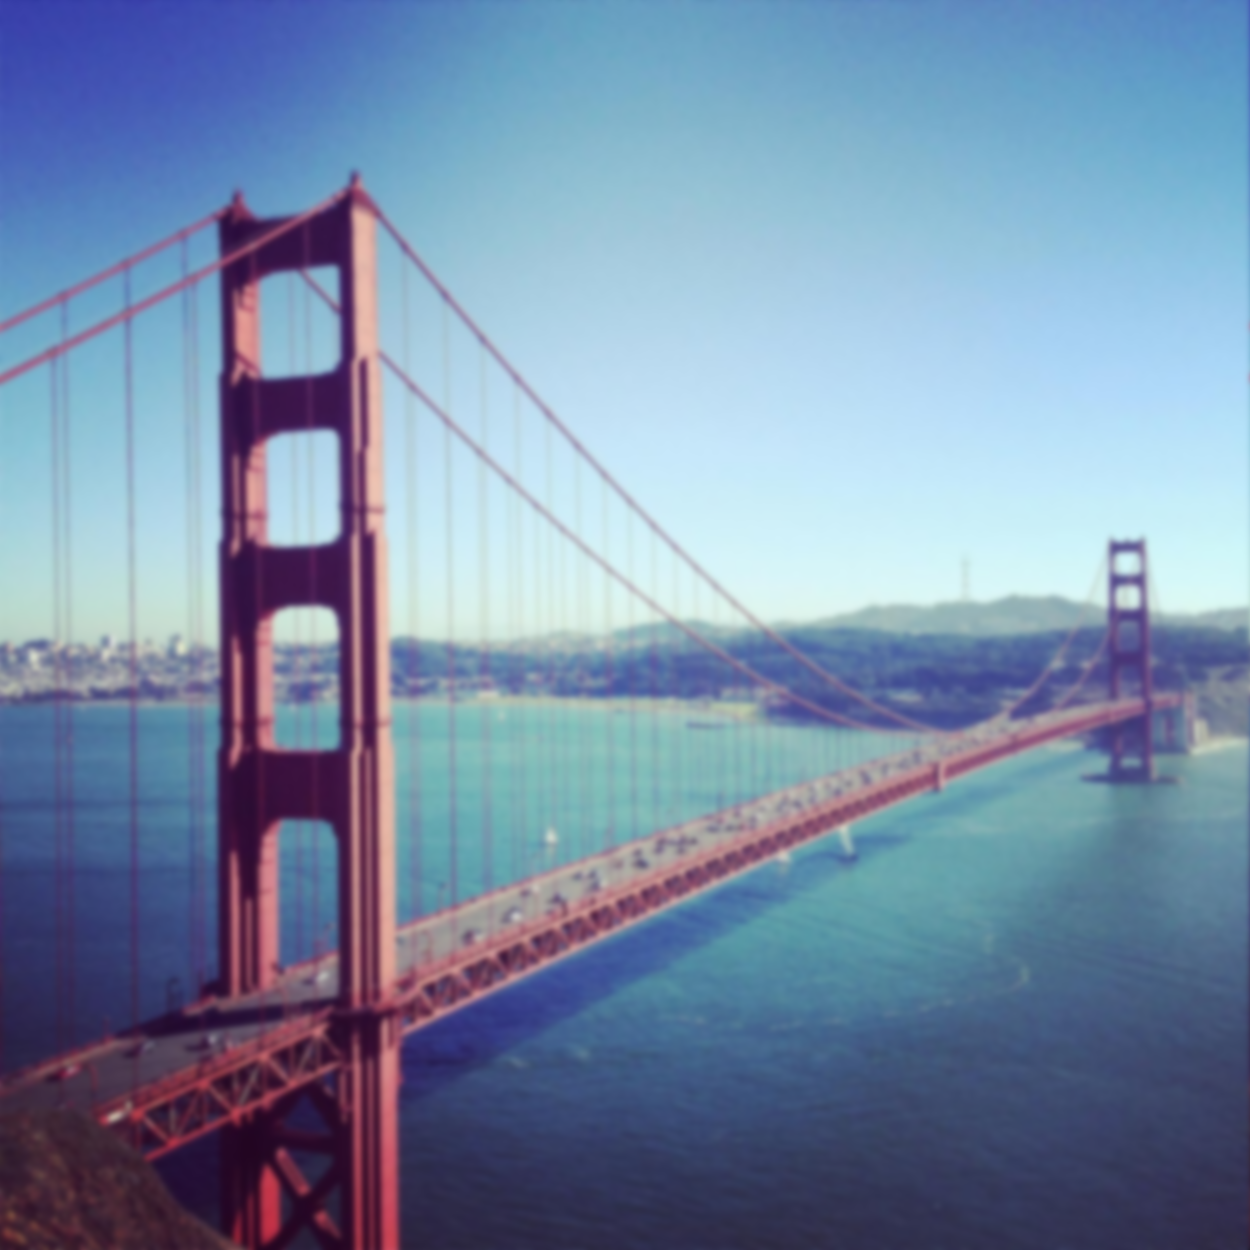
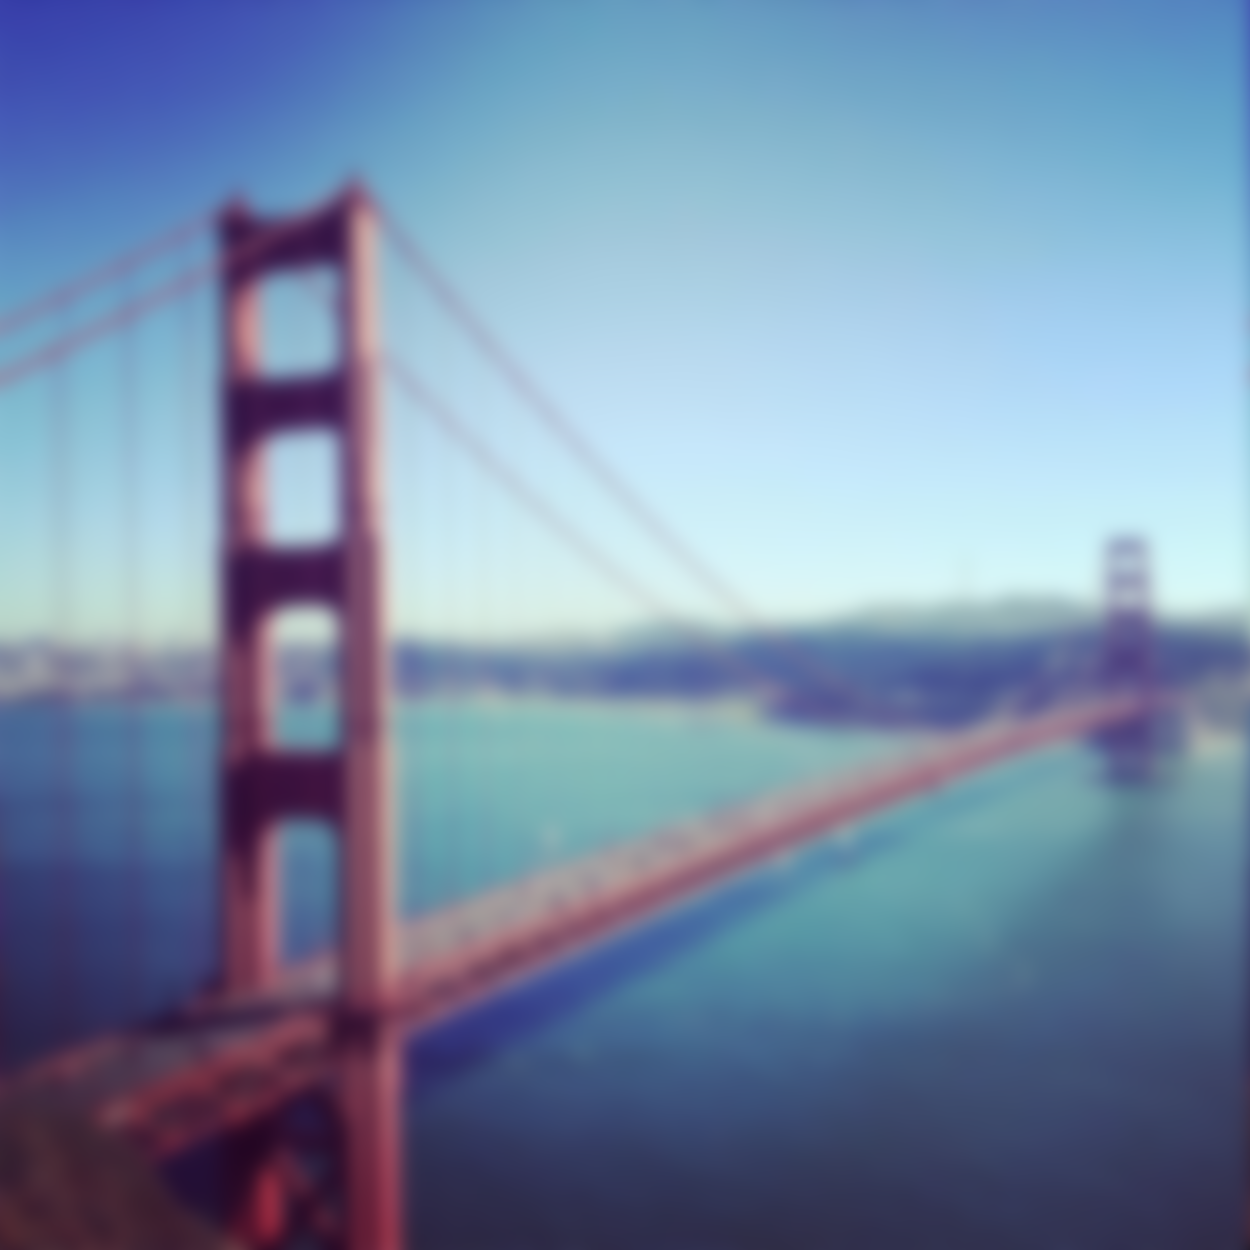
feature: Expermiment Result

diff --git a/README.md b/README.md
@@ -9,7 +9,7 @@
 
 ## Getting Started
 1. cd into the directory
-2. modify the script.sh to choose the input image you want
+2. modify the script.sh to choose the input and filter size you want
 3. execute the script.sh (make sure Makefile is here)</br>
 - Example to execute single-gpu program (make sure that you have already had gpu and cuda installed)
 
@@ -18,6 +18,22 @@ cd src/Single-GPU
 ./script.sh
 ```
 
+## Result
+Before | After
+:-----:|:------:|
+![](./testcase/origin/mountain.png) | ![](./testcase/result/mountain.png)
+![](./testcase/origin/bridge.png) |![](./testcase/result/bridge.png)
+![](./testcase/origin/view.png) | ![](./testcase/result/view.png)
+
+
 ## Experiment
-Filename  |Single CPU thread|Multiple CPU thread|Single GPU
-:----------:|:-----------------:|:-------------------:|:----------:
+- Filter Matrix size: 53*53
+- Multiple threads: 8
+
+Filename |Size|Single thread|Multiple threads|Single GPU
+:----------:|:-----------------:|:-------------------:|:----------:|:-----------------:
+iceberg.png|0.8 MB|12.6372(s)|1.44974(s)|0.528766(s)|
+mountain.png|1.9 MB|23.9481(s)|2.5741(s)|0.594938(s)|
+bridge.png |2.1 MB|35.1401(s)|3.69399(s)|0.647862(s)|
+view.png|2.4 MB|46.6573(s)|4.82201(s)|0.701165(s)|
+candy.png|13.9 MB|362.181(s)|36.6829(s)|2.43379(s)|
